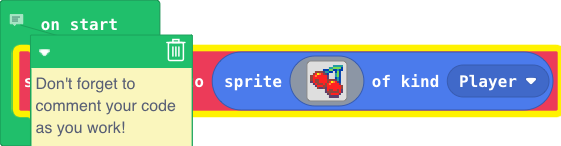
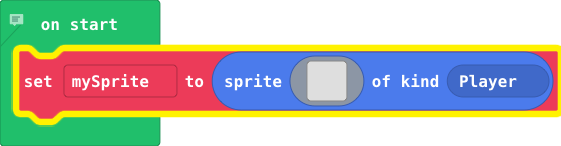
add duck sprite

Changed region(s): [[0.0303, 0.2192, 0.3636, 1.0], [0.5455, 0.4384, 0.6364, 0.6849], [0.9394, 0.5205, 0.9697, 0.5753]]

diff --git a/main.ts b/main.ts
@@ -1,19 +1,19 @@
 // Don't forget to comment your code as you work!
 let mySprite = sprites.create(img`
-    . . . . . . . . . . . 6 6 6 6 6 
-    . . . . . . . . . 6 6 7 7 7 7 8 
-    . . . . . . 8 8 8 7 7 8 8 6 8 8 
-    . . e e e e c 6 6 8 8 . 8 7 8 . 
-    . e 2 5 4 2 e c 8 . . . 6 7 8 . 
-    e 2 4 2 2 2 2 2 c . . . 6 7 8 . 
-    e 2 2 2 2 2 2 2 c . . . 8 6 8 . 
-    e 2 e e 2 2 2 2 e e e e c 6 8 . 
-    c 2 e e 2 2 2 2 e 2 5 4 2 c 8 . 
-    . c 2 e e e 2 e 2 4 2 2 2 2 c . 
-    . . c 2 2 2 e e 2 2 2 2 2 2 2 e 
-    . . . e c c e c 2 2 2 2 2 2 2 e 
-    . . . . . . . c 2 e e 2 2 e 2 c 
-    . . . . . . . c e e e e e e 2 c 
-    . . . . . . . . c e 2 2 2 2 c . 
-    . . . . . . . . . c c c c c . . 
+    . . . . . . . . . . b 5 b . . . 
+    . . . . . . . . . b 5 b . . . . 
+    . . . . . . b b b b b b . . . . 
+    . . . . . b b 5 5 5 5 5 b . . . 
+    . . . . b b 5 d 1 f 5 5 d f . . 
+    . . . . b 5 5 1 f f 5 d 4 c . . 
+    . . . . b 5 5 d f b d d 4 4 . . 
+    . b b b d 5 5 5 5 5 4 4 4 4 4 b 
+    b d d d b b d 5 5 4 4 4 4 4 b . 
+    b b d 5 5 5 b 5 5 5 5 5 5 b . . 
+    c d c 5 5 5 5 d 5 5 5 5 5 5 b . 
+    c b d c d 5 5 b 5 5 5 5 5 5 b . 
+    . c d d c c b d 5 5 5 5 5 d b . 
+    . . c b d d d d d 5 5 5 b b . . 
+    . . . c c c c c c c c b b . . . 
+    . . . . . . . . . . . . . . . . 
     `, SpriteKind.Player)
